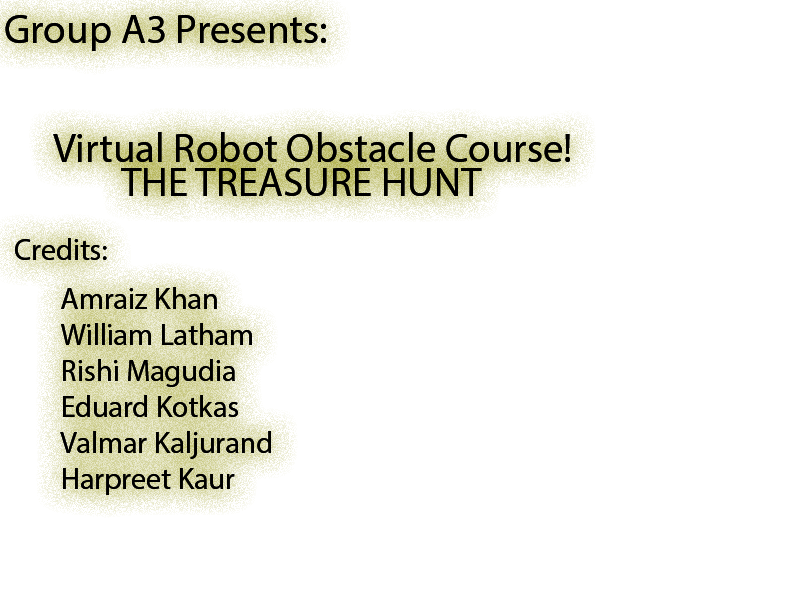
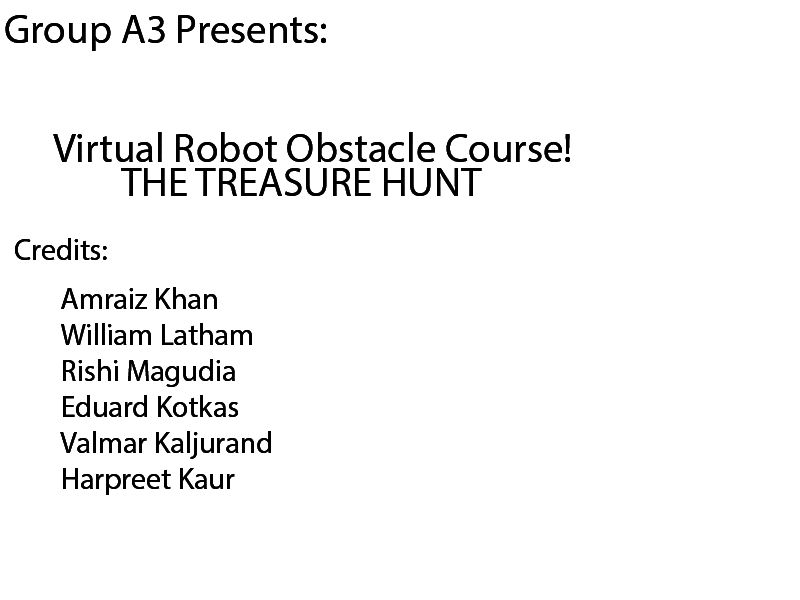
Create/Update file(s)
Created readme file for examples folder. Fixed background for the intro
animation. Changed colour for the credits.

Changed region(s): [[0.0, 0.36, 0.375, 0.87], [0.0312, 0.18, 0.75, 0.36], [0.0, 0.0, 0.4375, 0.12]]

diff --git a/game.py b/game.py
@@ -57,6 +57,7 @@ class Game:
         img = pygame.image.load("images/pirate.png")
         text = pygame.image.load("images/text.png")
         wall = pygame.image.load("images/wall.jpg")
+        wall = pygame.transform.scale(wall, (self.width, self.height))
         x = 600
         y = 600
         s = 5
@@ -75,16 +76,16 @@ class Game:
                     if event.key == pygame.K_ESCAPE:
                         pygame.quit()
                         break
-
             if y == 100:
                 pygame.time.delay(3000)
                 break
-            #update the screen
+            #update the screen and images
             self.screen.blit(text, (0,0))
             self.screen.blit(img, (x,y))
             pygame.display.update()
+            
             pygame.time.Clock().tick(FPS)
-
+            
     def loop(self):
         """
             infinite loop to keep the images updating and moving
@@ -101,7 +102,7 @@ class Game:
                     if event.key == pygame.K_ESCAPE:
                         pygame.quit()
                         break
-            #update the screen
+            #update the screen and images
             self.screen.blit(self.background, (0,0))
             pygame.display.flip()
 

diff --git a/Example/README.md b/Example/README.md
@@ -1,0 +1,1 @@
+This folder contains examples that the team could use to develop their classes.
